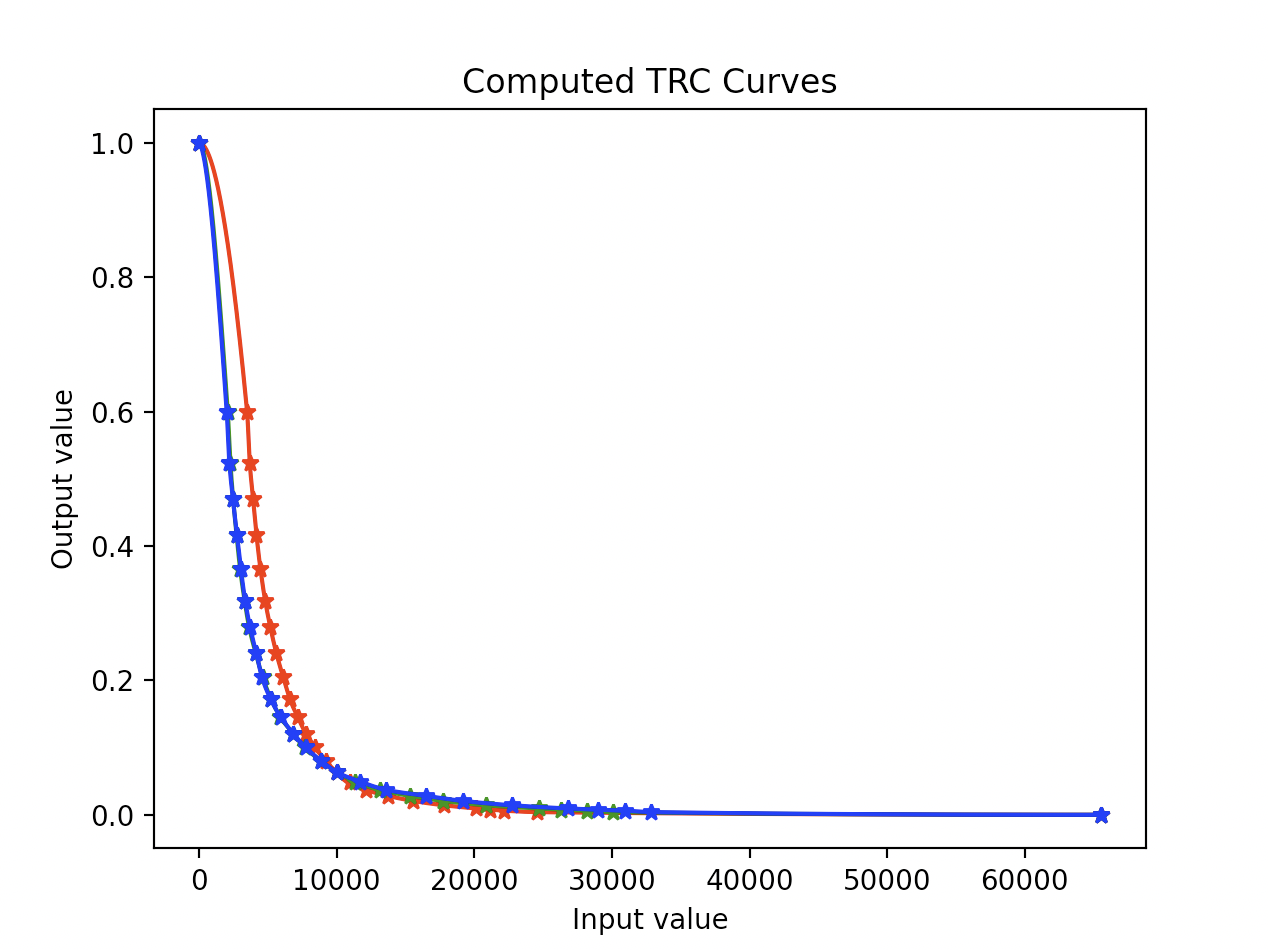
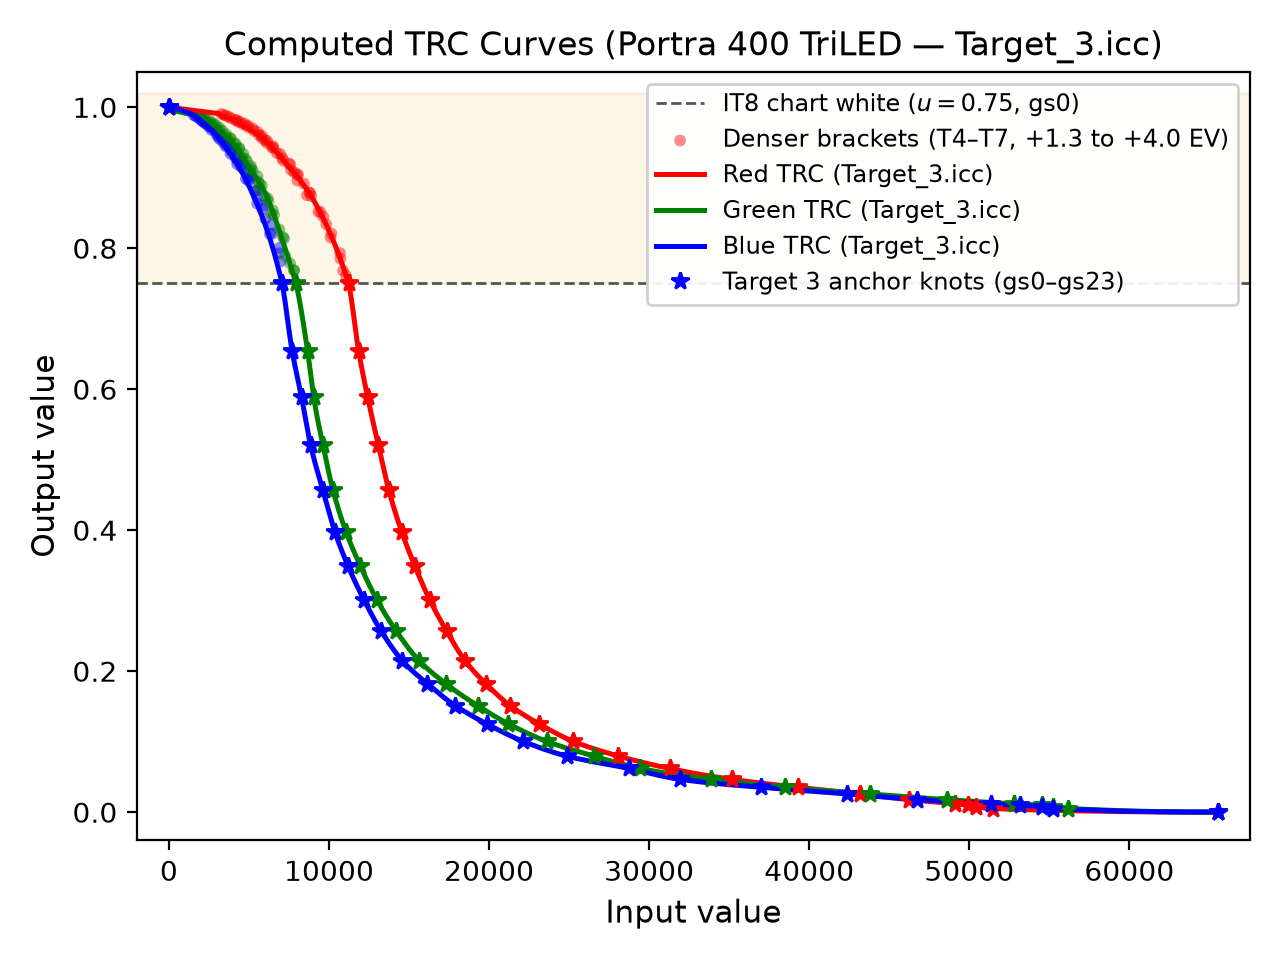
Update README with 7-bracket profiles, expanded highlight gamut, and DINOv3 auto color grading

Changed region(s): [[0.0, 0.0305, 0.9842, 0.9768], [0.1538, 0.9158, 0.1845, 0.9463]]

diff --git a/README.md b/README.md
@@ -1,200 +1,96 @@
 # Objective
 
-> [!WARNING]
-> **This repository is no longer maintained.**
-> This project was created for research purposes. The active, fully integrated capture and conversion station software—including automated USB tethering, GTK3 desktop UIs, CUDA hardware acceleration, and optimized multi-exposure profiling—is now maintained in the **[negicc-station](https://github.com/arufahc/negicc-station)** repository. Please check the new [negicc-station README](https://github.com/arufahc/negicc-station/blob/main/README.md) for setup and instructions.
-
-> **TODO:** update this notice: this repository is now negicc-station's conversion engine (`neg_process` with the automatic conversion and the built-in profiles).
-
-NegICC is a project for creating ICC profiles for color negatives. The main
-objective of the tool is to have consistent colors for images of negative
-film taken with a digital camera.
-
-The ICC profiles created should have the following properties:
-* Allow color balance adjustments
-* Produces netural color which allows further asdjustments
-* Can be used with commonly available photo editting tools
-
-> **TODO:** the profiles are now built in negicc-station and exported here as profile bundles (`profiles/<Key>/`, one ICC profile per calibration bracket).
+NegICC creates ICC profiles and converts color negatives captured with a digital camera into consistent, color-accurate positive images. The ICC profiles and conversion tool (`neg_process`) have the following properties:
+* Allow color balance and exposure adjustments while preserving film dye characteristics
+* Produce neutral, accurate color ready for display or further editing in standard photo editors
+* Include **3 manually profiled film stocks** (**Kodak Portra 400**, **Portra 160**, and **Ektar 100**), each photographed and calibrated across **7 exposure brackets** under **2 light sources** (**42 ICC profiles total** in `profiles/<Key>/`, `Target_1.icc`..`Target_7.icc` under narrowband `TriLED` and white `D65` light)
 
 ![sample conversion](samples/sample.png)
 
 # Introduction
 
-Typical color negative conversion software operates in sRGB colorspace.
-However color negative is a medium for recording color information in terms
-of dye density. The density of the dyes is designed to be extracted with
-[Status M](https://law.resource.org/pub/us/cfr/ibr/001/aimm.it2.18.1996.pdf) densitometry and is not under D50 or 5000K light.
+Typical color negative conversion software operates in sRGB colorspace. However, color negative film records color information as dye density designed to be extracted with [Status M](https://law.resource.org/pub/us/cfr/ibr/001/aimm.it2.18.1996.pdf) densitometry rather than D50 or 5000K light.
 
-The first step of scanning film with a digital camera is to produce response
-that resembles Status M densitometry with good sepearation between the channels.
-I created a [guide](https://docs.google.com/document/d/1NsfFPx5c7kxNRUhuGQBKRNnaN0c52SjLsZsyhLCj3OE/edit?usp=sharing) with detailed steps.
+The first step of scanning film with a digital camera is to produce a response that resembles Status M densitometry with good separation between the channels (see the original [guide](https://docs.google.com/document/d/1NsfFPx5c7kxNRUhuGQBKRNnaN0c52SjLsZsyhLCj3OE/edit?usp=sharing)).
 
 # How does it work?
 
-With a triband filter (or narrowband LED light) and crosstalk
-correction, the RGB response is still not linear to density. From this diagram
-B and G response of the profiled film are closest resemblance, but R response
-has a different slope.
+With narrowband RGB LED light (or a triband filter) and crosstalk correction, the RGB response is still not linear to density. From this diagram, the B and G responses of the profiled film closely resemble each other, while the R response has a different slope:
 
 ![Characteristic Curves](samples/characteristic_curves.png)
 
-A IT8 reflective target recored on film is used to correct the different
-responses and to invert into linear RGB that corresponds to the original
-luminance values.
+An IT8.7/2 reflective target (`R190808` from coloraid.de) photographed onto each film stock across **7 exposure brackets** is used to correct the different channel responses and invert them into linear RGB corresponding to original scene luminance:
 
 ![IT8 used for profiling](samples/it8.png)
 
-> **TODO:** describe the capture with trichromatic (narrowband RGB) LEDs: one shot with a crosstalk correction matrix (`--light_source tri`, the bundle's matrix or `-r -g -b`), and in future three shots, one per LED colour, needing no correction matrix.
+### Simple Trichromatic (`TriLED`) & White-Light (`D65`) Capture
 
-A capture under white (D65) light (`--light_source d65`) uses a bundle whose `input_space` is `rec2020_linear`: the
-scan goes through LibRaw's white-light decode (the camera's daylight white balance and colour matrix, to linear
-Rec.2020) and no crosstalk correction is applied, as in negicc-station. It takes single-shot captures only.
+Capturing negatives is much simpler now and supports camera RAWs, DNGs, and 16-bit linear TIFFs without optical filter wheels:
+* **Trichromatic narrowband RGB LED (`--light_source tri`):**
+  * *Single-shot RAW/DNG or 4-shot Sony Pixel Shift:* Uses the bundle's $3\times 3$ sensor crosstalk correction matrix (or custom `-r`, `-g`, `-b` rows) to remove Bayer CFA channel overlap.
+  * *3-shot monochromatic RGB (`r.raw g.raw b.raw`) or pre-separated TIFF/DNG:* Capturing 3 separate frames under Red, Green, and Blue LEDs isolates the channels physically with zero sensor crosstalk—use the **identity color correction** (`-r "1 0 0" -g "0 1 0" -b "0 0 1"`).
+* **White D65 light (`--light_source d65`):** Single-shot capture under a standard D65 white LED panel. `neg_process` decodes the scan through LibRaw's daylight white balance and camera matrix into linear Rec.2020 with **no crosstalk matrix needed**.
 
-The tool provided in this repo will generate the following curves.
+### 7-Bracket Tone Curves (TRC) & Highlight Roll-Off
+
+A single IT8 target only calibrates tones across its own **7.22-stop** range up to the chart's white patch (`gs0` at 0.75). Fitting all **7 brackets** (`Target_1`..`Target_7`, spanning **4.6 to 5.4 stops** from under- to over-exposed) together measures each bracket's exact exposure offset and traces the film's true highlight shoulder—giving **11.9 to 12.7 stops of total scene dynamic range** and **+2.6 to +4.0 stops of calibrated highlight headroom** above normal white:
 
 ![TRC Curves](samples/trc_curves.png)
 
-Last step is to convert to the CIE XYZ colorspace using either a 3D-LUT or Matrix.
-These two steps can be encoded as a ICC profie.
-
-The profiles created by NegICC is not meant to be a colorspace and not
-suitable for general editing. They are used for correcting the curves of
-the color channels and to map to the CIE XYZ.
+The final step converts linearized RGB values into CIE XYZ / $L^*a^*b^*$ using a 16-bit Curve + **$45^3$ 3D-cLUT** encoded as an ICC profile:
 
 ![ICC profile](samples/icc.png)
 
-# ICC Profile Description
+# ICC Profile Description & Expanded Highlight Gamut
 
-There are three profiles generated by NegICC:
-* Curve + cLUT ICC V2 Profile
-* Curve + Matrix ICC V4 Profile
-* Matrix + Curve + cLUT V4 Profile
+While early versions generated Curve+Matrix and V4 MPET profiles, the built-in bundles provide **7 brackets of 16-bit Curve + $45^3$ cLUT ICC profiles** (`profiles/<Key>/Target_1.icc`..`Target_7.icc`). Standard single-target cLUT profiles lose saturation or clip in bright highlights because a single chart has no patches above its white patch ($L^* \approx 89.4$). By injecting the brighter patches from the denser, more over-exposed brackets (`Target 4`–`Target 7`, adding +567 highlight color samples on `Target_3.icc`) into the cLUT, the calibrated 3D CIELAB gamut volume and highlight chroma extend smoothly all the way to pure white ($L^* = 100$) without amplifying film grain:
 
-The cLUT or matrix is to map the resultant linerized RGB values into XYZ
-values. cLUT usually is more accurate but could cause clipping and hence
-not ideal for photo editting. Matrix is much less accurate but is more
-robust for editting.
+![Gamut Volume](samples/gamut_volume.png)
 
-> **TODO:** update for the profiles negicc-station builds (bundles of cLUT profiles, one per calibration bracket); the data files and profiling tools described below have moved to negicc-station.
+### DINOv3 Automatic Color Grader & Iterative Convergence
 
-The matrix in the third profile includes a crosstalk correction matrix to
-account for crosstalk between RGB channels of the digital sensor, the
-curves and the cLUT. The matrix is an invariant of CFA sensor and triband
-filter (optional with tricolor light source). However this V4 profile uses
-a MPET pipeline that is not compatible with many image editors and is there
-for completeness only.
+Instead of relying on simple grey-world heuristics, `neg_process` uses Meta's **DINOv3** vision model as an **automatic color grader** trained on real **Fujifilm Frontier and Noritsu lab scans** collected from Flickr and Photohito (`models/dinov3-small_<stock>/`). Because DINOv3 understands scene semantics, it recognizes objects in context (sky, foliage, skin tones, stone, shadows) and predicts the **target Lab color** ($\mu_i$) and **tolerance** ($\sigma_i$) that each $16\times 16$ patch of the photo should have based on learned lab-scan examples:
 
-Included in this repo is data files from films exposed with a
-IT8 target under 5400K sunlight and scanned using a Sony A7RM4 digital camera
-with a Edmund Optics #87-254 triband filter. The crosstalk correction matrix
-is estimated by additionally scanning with red, blue and green bandpass filters.
+![DINOv3 Intent Field and Convergence](samples/dinov3_intent.png)
 
-The IT8 target is measured using a Konica Minolta CS100A spot colorimeter or
-downloaded from coloraid.de. The readings are also included in this repo.
+To convert a frame automatically:
+1. **Auto Film-Base & Frame Detection:** Automatically samples the unexposed orange film base from the scan border (rebate or thinnest film; *TODO: add support for reading the film base from a separate unexposed film capture*) and crops the film frame (`--roi auto --film_format 35mm|645|6x6|6x7|6x9`).
+2. **Bracket Screening & Iterative Error Minimization:** Screens the 7 brackets against the predicted target Lab patch field, then iteratively adjusts exposure (`E`) and green/blue color balance (`g`, `b`) on the top brackets—re-evaluating the DINOv3 target Lab field at each step—until the patch Lab error converges to a minimum (with automatic highlight pullback and bracket step-up if highlights clip).
 
-The RGB curves are estimated using a Pchip spline curve interpolation. And the
-resultant crosstalk corrected and 'positive' values are then fed into ArgyllCMS
-to compute the cLUT and color matrix. The avg error is about 0.87 and 7.2 (over
-100) respectively.
+# Requirements & Hardware
 
-# Requirements
+`neg_process` builds LibRaw (`3rd_party/libraw` submodule; `make LIBRAW_JPEG=1` adds lossy DNG support), Little-CMS 2 (`3rd_party/lcms2`), and zlib from source, and uses ONNX Runtime (`3rd_party/onnxruntime`) with the DINOv3 model (`make dinov3_model`).
+* **Hardware:** Sony A7RM4 (`ILCE-7RM4`, single-shot or 4-shot pixel shift) + Rayfact QVM05041MF; narrowband RGB LED light ([Shoebox Photos BCS](https://www.shoeboxphotosbcs.com) or Olafus RGB flood light with diffuser—**no optical filters needed**) or D65 white LED panel; IT8.7/2 target (`R190808` from coloraid.de, 7 bracketed exposures per stock).
 
-* Python 3
-* PIP
-* ArgyllCMS
-* LibRaw: built from the `3rd_party/libraw` submodule (pinned to a LibRaw release), not the system's libraw-dev;
-  clone with `git clone --recursive` or run `git submodule update --init --recursive`. Lossy (JPEG-compressed)
-  DNG support is off, so every machine decodes alike; `make LIBRAW_JPEG=1` enables it and needs libjpeg-dev.
-* lcms2
-* Clang
-* Matplotlib
+```bash
+sudo apt-get install clang make autoconf automake libtool pkg-config libtiff-dev libjpeg-dev curl python3
+git clone --recursive https://github.com/arufahc/negicc.git && cd negicc
+make dinov3_model && make -j$(nproc) neg_process   # add USE_CUDA=1 for NVIDIA GPU acceleration
 ```
-sudo apt-get install python3 pip argyll liblcms2-dev libtiff-dev zlib1g-dev libjpeg-dev
-```
-* Python packages
-```
-pip install opencv-python matplotlib colour-science pandas scikit-learn scipy
-```
-
-> **TODO:** the profiling requirements (ArgyllCMS, the Python packages) moved to negicc-station. `neg_process` needs LibRaw (the `3rd_party/libraw` submodule, built by the Makefile), lcms2, zlib, ONNX Runtime (`3rd_party/onnxruntime`) and the DINOv3 backbone (`make dinov3_model`).
-
-# Hardware Used
-
-## Creating Profiles
-* IT8 target (R190808 from coloraid.de)
-* Edmund Optics #87-254
-* Bandpass filters: MidOpt BP470, BP525 and LP610
-
-## Capturing (previous setup)
-* Fiet 74204/CA led light panel
-* Edmund Optics #87-254
-* Nikon Z7
-* Rayfact QVM05041MF
-
-## Capturing (new setup with 4-shot pixel shift)
-* Olafus 25W RGB Flood Light
-* Edmund Optics #87-254
-* Sony A7RM4
-* Rayfact QVM05041MF
-
-> **TODO:** add the trichromatic LED setup; creating profiles is now done with negicc-station.
 
 # Usage Example
 
-Run the following commands to use RAW develop tools and ICC profiles.
+```bash
+bin_out/neg_process --list_profiles   # list built-in 7-bracket bundles (portra400, portra160, ektar100 for tri/d65)
 
-```
-# Make neg_process tool for RAW developing.
-make neg_process
+# 1. Single-shot Trichromatic LED scan (auto film-base, auto bracket & DINOv3 color grading -> 16-bit sRGB TIFF)
+bin_out/neg_process --film_stock portra400 --light_source tri -P srgb -o out.tif scan.ARW
 
-# Make profile for Sony A7RM4 with Portra 400
-make sony_a7rm4_portra400_0
+# 2. Single-shot D65 white-light scan with automatic 6x7 frame crop
+bin_out/neg_process --film_stock portra400 --light_source d65 --roi auto --film_format 6x7 -P srgb -o out.tif scan.ARW
 
-# Make profile for Sony A7RM4 with Portra 400 +2 stops exposure
-make sony_a7rm4_portra400+2
-```
+# 3. 4-shot Sony Pixel Shift mode (pass 4 RAW files; merges sub-pixel RGB without Bayer demosaicing)
+bin_out/neg_process --film_stock ektar100 --light_source tri -P srgb -o out.tif ps1.ARW ps2.ARW ps3.ARW ps4.ARW
 
-neg_process tool uses LibRAW to unpack raw files. It can run in two modes,
-4-shot pixel shift mode and single shot mode. The 4-shot pixel shift mode
-assumes taken with Sony camera with such capability and will not for other
-brands. In 4-shot pixel shift mode, the raw values are simply scaled by 4
-to convert from 14-bit raw to 16-bit image after subtracting the dark value.
-In single shot mode, libRAW processing is used and scales automatically but
-without auto brightness. Either mode will give consistent results as long
-as you don't switch between the two modes.
+# 4. 3-shot sequential R, G, B LED capture (use identity color correction — zero sensor crosstalk)
+bin_out/neg_process --film_stock portra160 --light_source tri -r "1 0 0" -g "0 1 0" -b "0 0 1" -P srgb -o out.tif r.ARW g.ARW b.ARW
 
-> **TODO:** the profile make targets above are removed. Update for `--film_stock` and `--light_source`, the parameter search that runs by default, and `--list_profiles` (see `bin_out/neg_process --help`).
-
-Usage like this:
-```
-# Single shot mode. The output format is PPM.
-bin_out/neg_process -o output_file.ppm input.raw
-
-# 4-shot pixel shfit mode. The output format is TIFF without a ICC profile.
-# If 4 input files are provided, it assumes 4-shot PS mode.
-bin_out/neg_process -o out.tif -p some_profile.icc input1.raw input2.raw input3.raw input4.raw
+# 5. Manual override: pick a bracket (0..6), exposure (-E), or green/blue gains (--gain_g, --gain_b)
+bin_out/neg_process --film_stock portra400 --light_source tri --target 4 -E 1.15 --gain_g 0.98 --gain_b 1.04 -P srgb -o out.tif scan.ARW
 ```
 
-Note that the profile is only good for the particular setup I used. You will
-need to develop your own IT8 target exposures, scan them with filters and run
-this again. The steps for generating the data files are in the Makefile.
-
-The cLUT applied TIFF image can be editted with Capture One. The suggested
-workflow is to adjust *only* the levels using the Levels tool. This mimic
-adjusting the color filtration in making darkroom prints assuming we already
-have good color separation. You can also do exposure adjustments as well.
-After the image is color balanced, it should be exported to AdobeRGB and
-imported again for further editting.
-
-# More details
-
-Please see the code in build_prof.py and neg_process.{cc, py} for details of the algorithm.
-
-> **TODO:** `build_prof.py` and `neg_process.py` are removed; point to `neg_process.cc`, `multi_target_optimizer.cc` (the conversion parameter search) and negicc-station.
+For manual darkroom-style grading in Capture One, omit `-P srgb` and adjust *only* the Levels tool before exporting to AdobeRGB/sRGB. See [`neg_process.cc`](neg_process.cc), [`multi_target_optimizer.cc`](multi_target_optimizer.cc), and [`dinov3_auto_solver.cc`](dinov3_auto_solver.cc) for implementation details.
 
 # Licences
 
-negicc is GPL-3.0 (COPYING). The DINOv3 backbone in `models/dinov3-small/backbone.onnx`, which `neg_process` packs
-into its binary, is Meta's DINOv3 and is under the DINOv3 License (`models/dinov3-small/LICENSE.md`): distribute it,
-or a `neg_process` built with it, only under that licence and with a copy of it.
+negicc is GPL-3.0 (`COPYING`). The DINOv3 backbone in `models/dinov3-small/backbone.onnx`, which `neg_process` packs into its binary, is Meta's DINOv3 and is under the DINOv3 License (`models/dinov3-small/LICENSE.md`): distribute it, or a `neg_process` built with it, only under that licence and with a copy of it.
